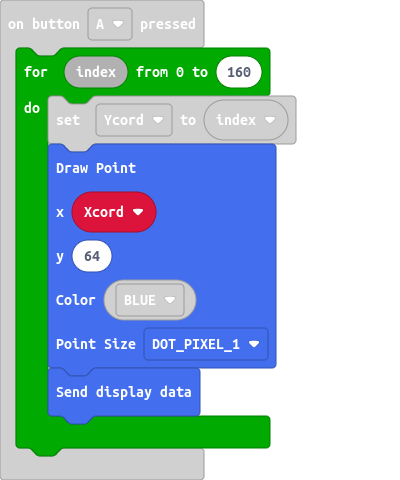
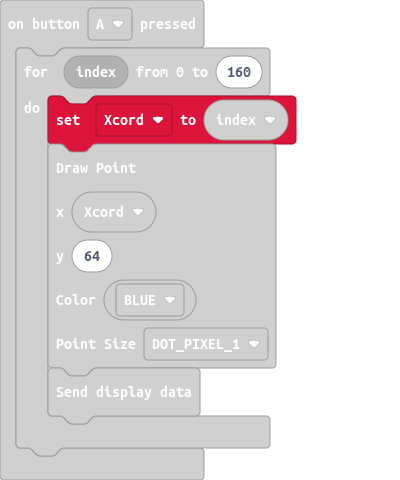
Update main.blocks, main.ts

diff --git a/main.ts b/main.ts
@@ -1,6 +1,6 @@
 input.onButtonPressed(Button.A, function () {
     for (let index = 0; index <= 160; index++) {
-        Ycord = index
+        Xcord = index
         LCD1IN8.DrawPoint(
         Xcord,
         64,
@@ -14,11 +14,10 @@ input.onGesture(Gesture.Shake, function () {
     LCD1IN8.LCD_Clear()
     LCD1IN8.LCD_Display()
 })
-let Ycord = 0
 let Xcord = 0
 let lite = 32
 Xcord = 1
-Ycord = 1
+let Ycord = 1
 LCD1IN8.LCD_Init()
 LCD1IN8.LCD_Clear()
 LCD1IN8.LCD_Display()
